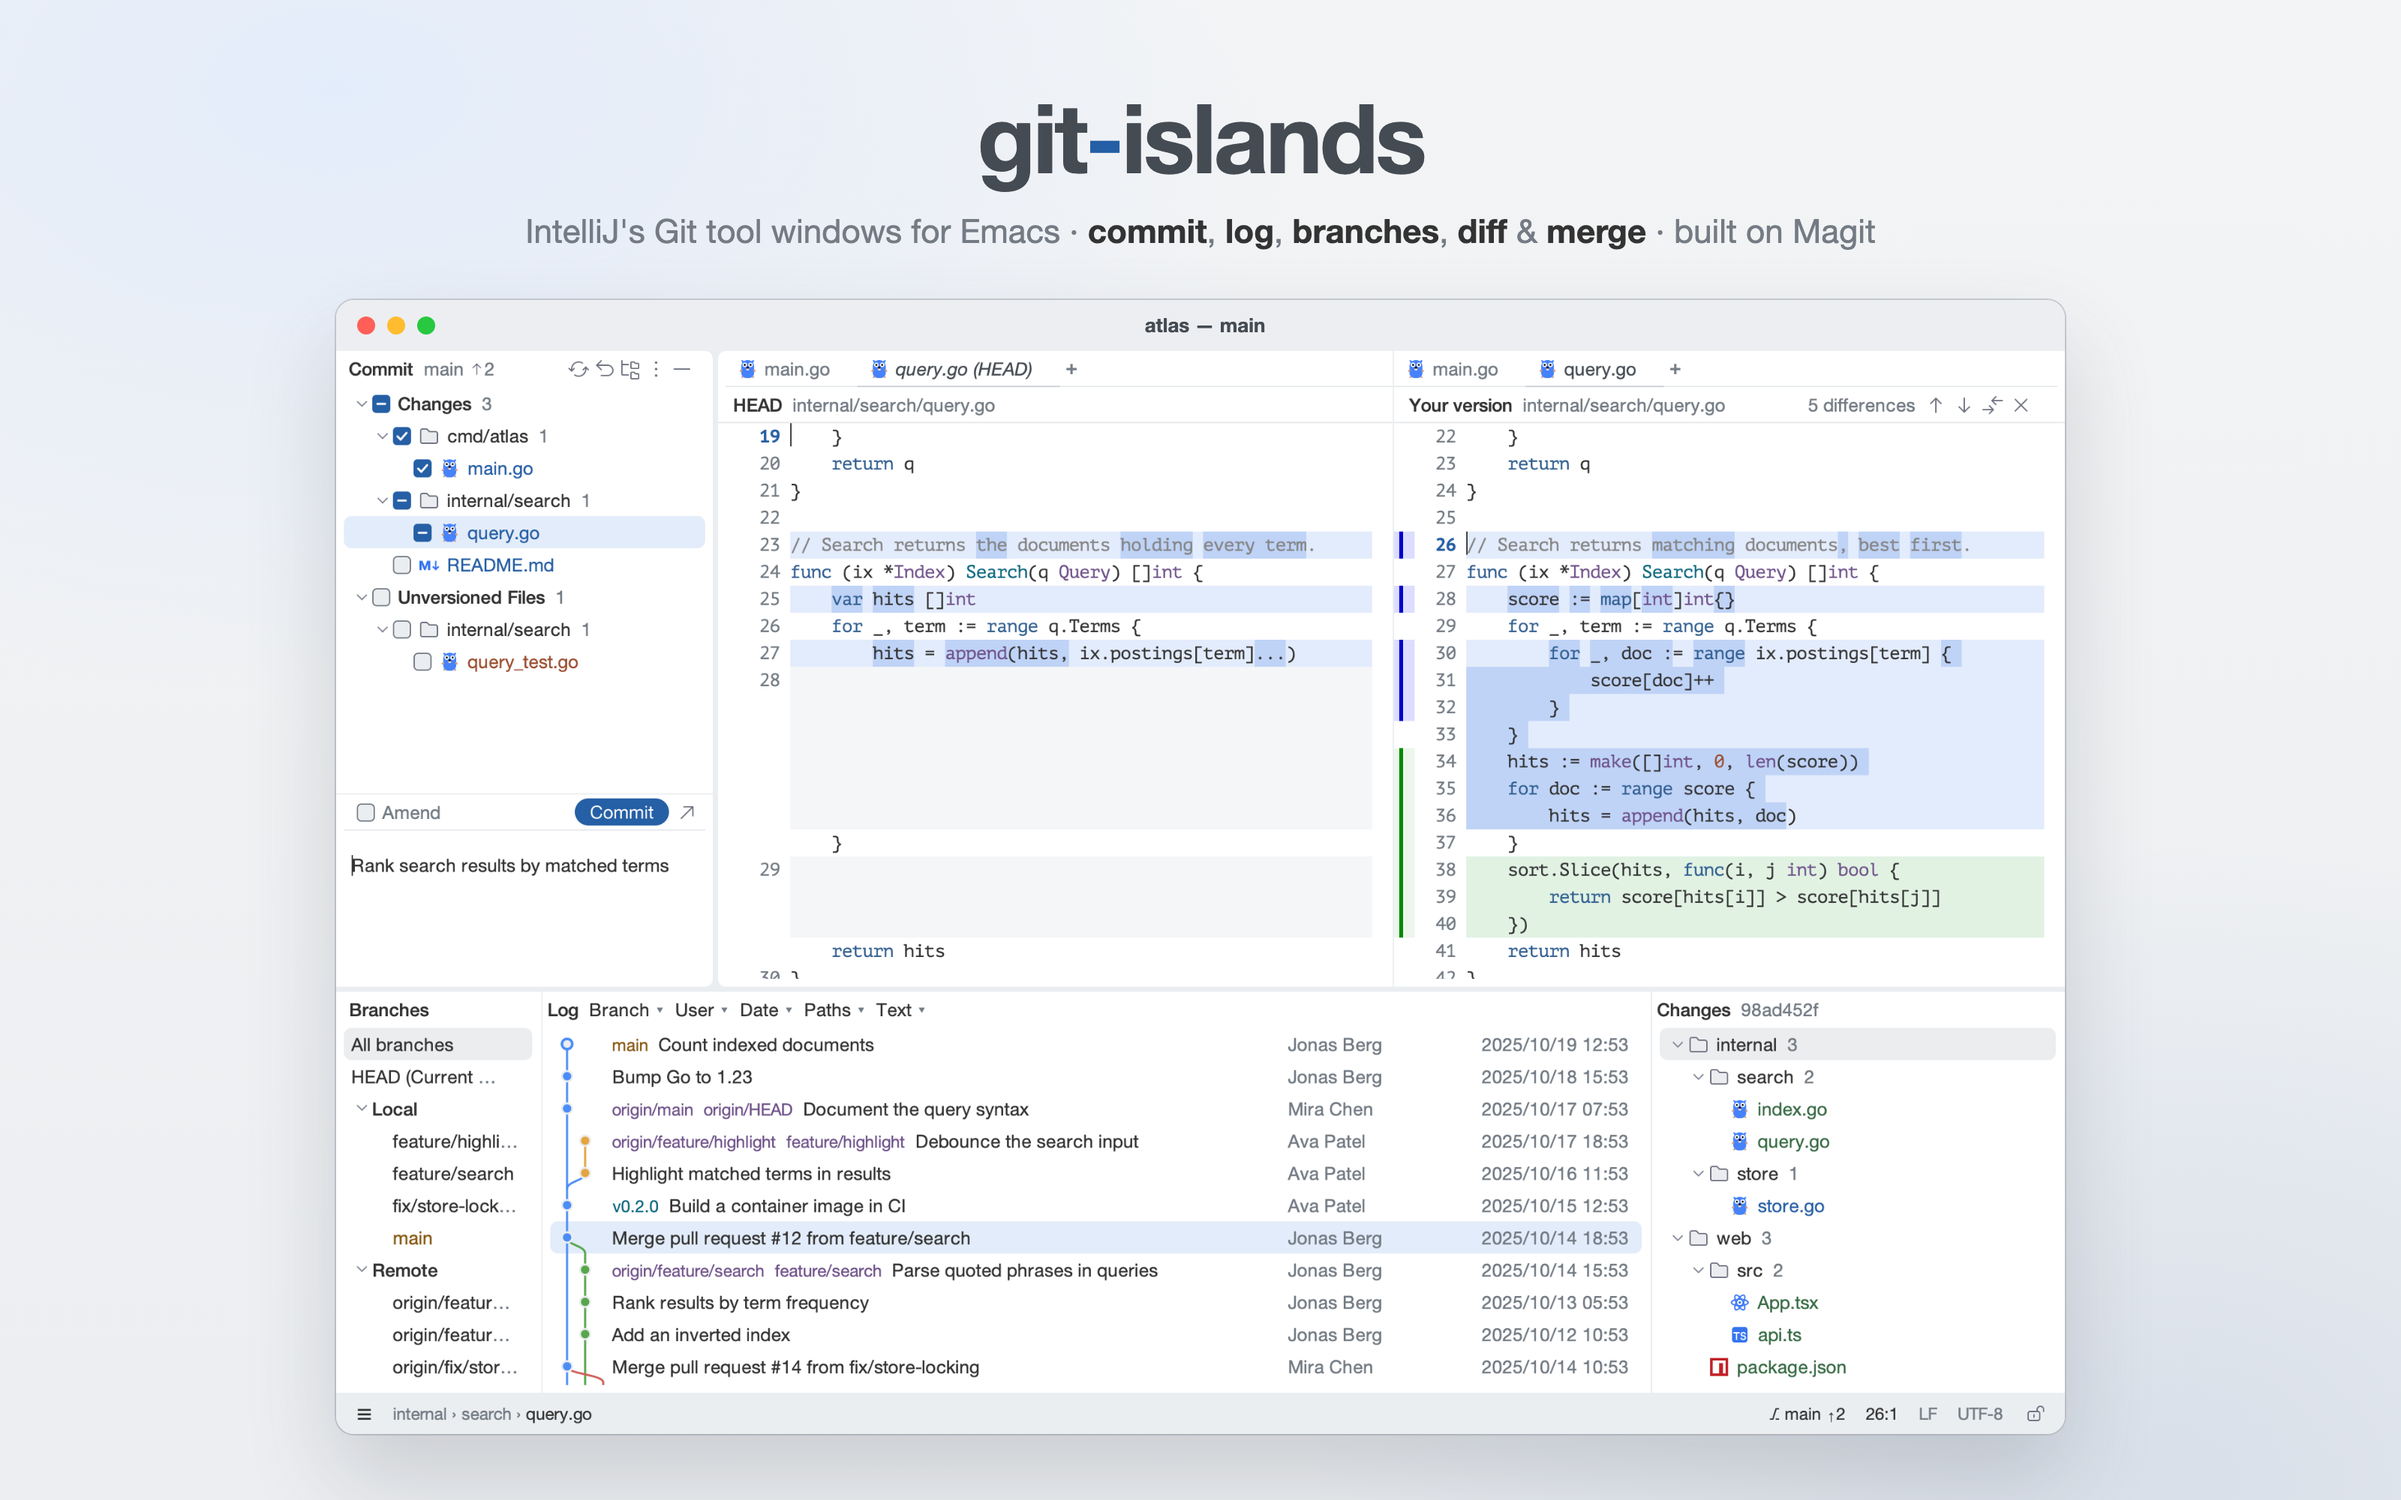
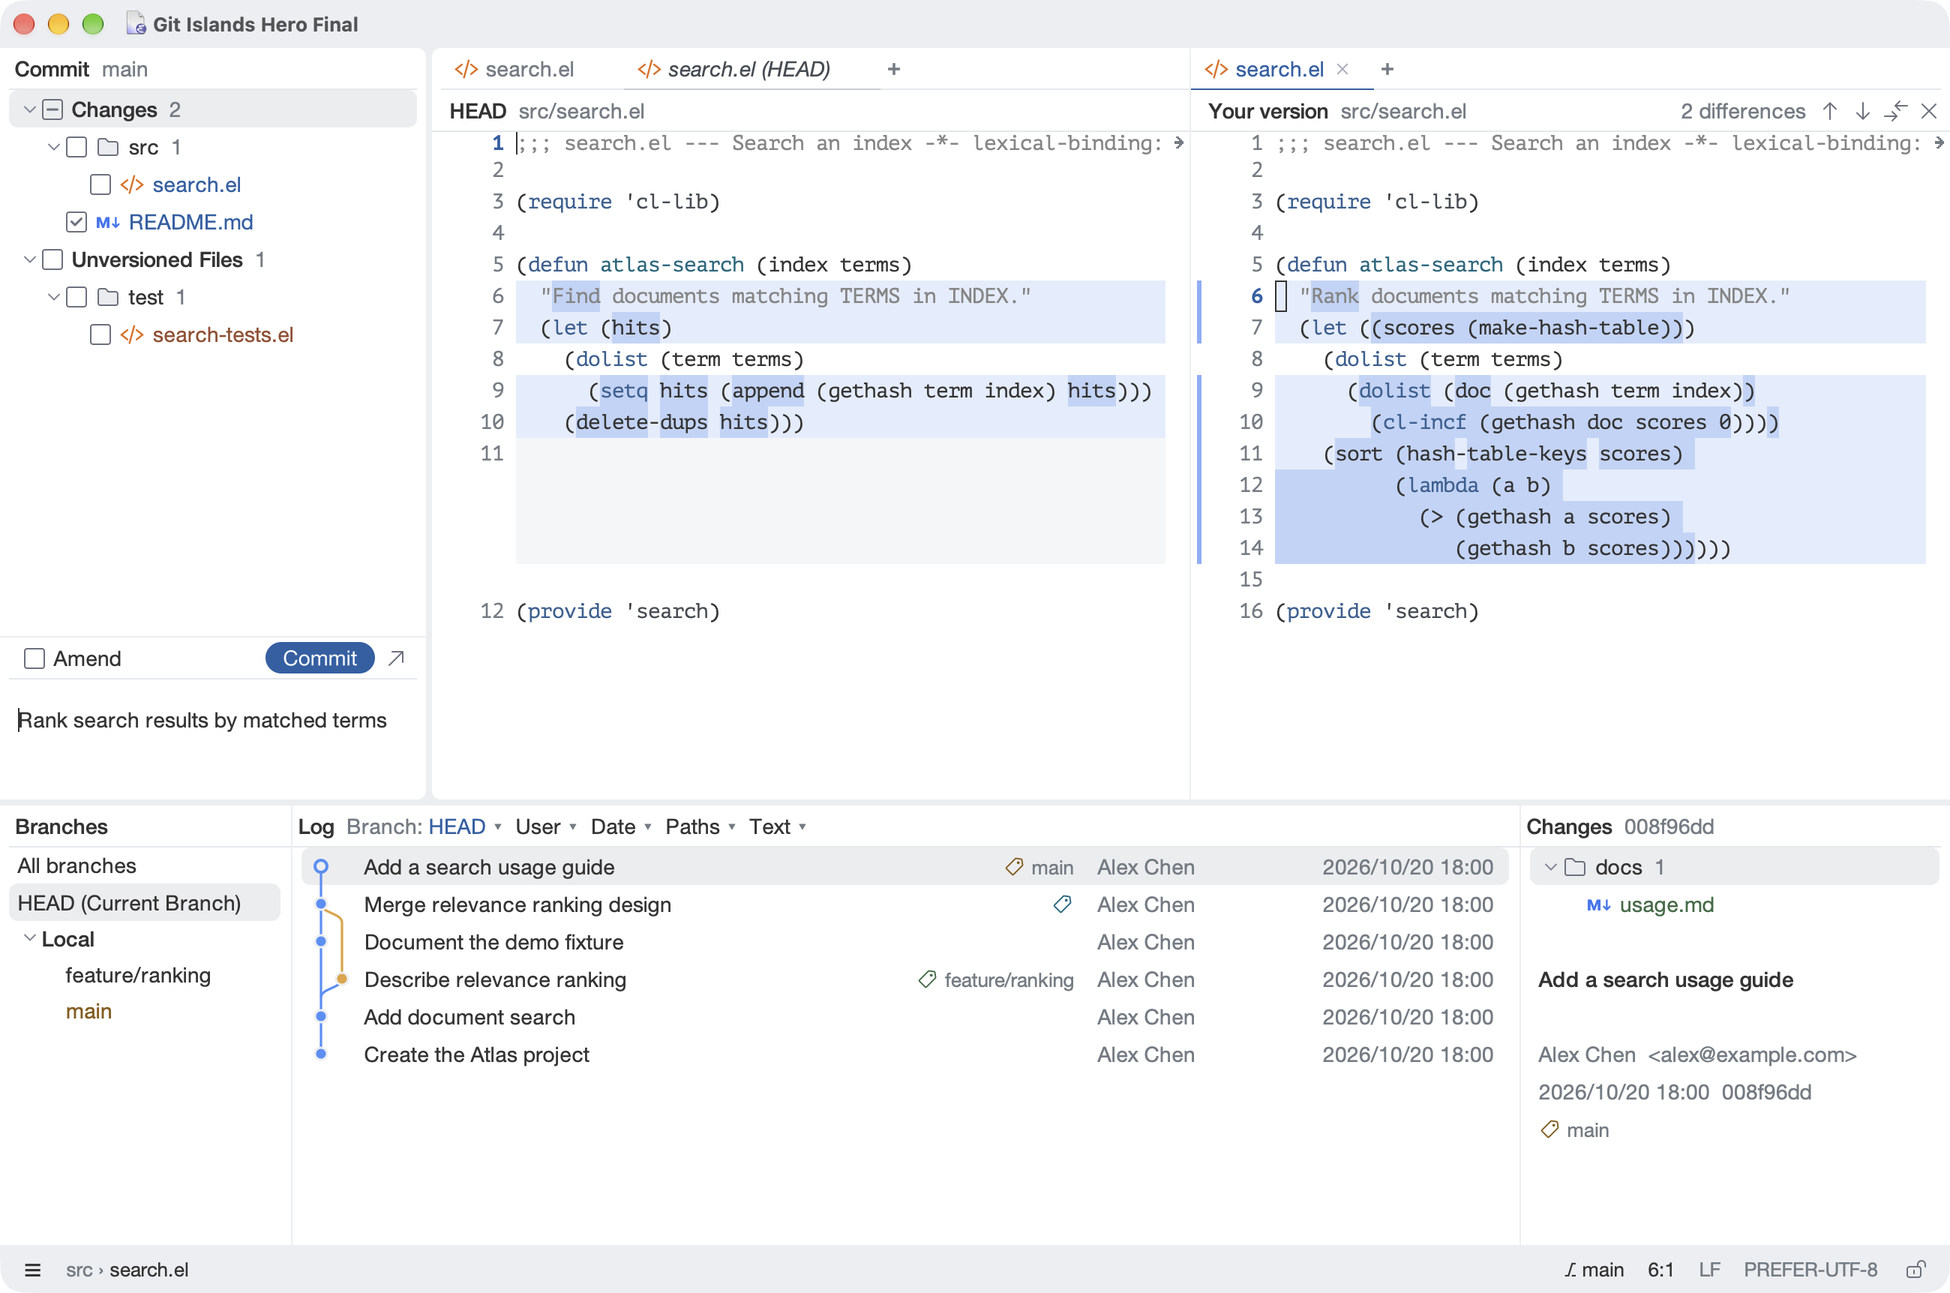
Fix pane sizing and diff alignment and refresh screenshots

diff --git a/README.md b/README.md
@@ -229,8 +229,18 @@ color or set it to nil to hide it. Height is measured from the header font,
 with room for icons and rounded buttons. `git-islands-header-padding` controls
 the minimum padding above and below content. `git-islands-header-ascent` defaults to nil for automatic
 vertical centering; explicit percentages remain supported.
+For exact alignment with another editor component, set
+`git-islands-header-space-function` to a function taking WIDTH and returning
+a spacer display spec. Nil retains the automatic default measurements.
 Keep `git-islands-ui-font` limited to font attributes: inheriting `default`
 on inline text also imports its background, covering the header beneath it.
+
+The commit message body keeps at least four frame text lines after layout
+changes; customize `git-islands-message-min-body-lines` (zero disables this).
+Diff temporarily disables soft wrapping so logical lines stay aligned, then
+restores each buffer’s prior wrapping settings on exit. Highlight overlays and
+filler lines preserve the buffer’s default line-height and line-spacing. Narrow Diff headers
+shorten paths (full text in the tooltip) and retain essential navigation.
 
 [examples/style.el](examples/style.el) combines these settings into an optional,
 standalone file. Load it after your theme with

diff --git a/README.zh-CN.md b/README.zh-CN.md
@@ -209,8 +209,16 @@ Commit 和 Log 不再显示刷新、隐藏图标，仍可使用 `g` 和 `q`；Lo
 高度按表头字体计算，并为图标和圆角按钮留出空间。
 `git-islands-header-padding` 控制内容上下的最小留白。`git-islands-header-ascent` 默认 nil，
 自动计算文字的垂直居中；已有配置中的百分比数值仍然有效。
+需要与编辑器其他组件精确对齐时，可设置 `git-islands-header-space-function`，
+函数接收 WIDTH 并返回撑高空白的 display spec；nil 保留库的自动测量。
 `git-islands-ui-font` 只应设置字体属性；让行内文字继承 `default` 会连同背景一起继承，
 覆盖表头本身的背景。
+
+布局变化后，提交信息正文至少保留四个字体行高，可通过
+`git-islands-message-min-body-lines` 调整（0 表示关闭保底）。
+Diff 期间暂时关闭软换行，保证逻辑行对齐，退出后恢复原来的局部设置。
+差异高亮与补齐空行同时保留缓冲区默认的行高和行距。
+窄窗格中路径会缩短，悬停可查看全文；操作区优先保留必要导航。
 
 [examples/style.el](examples/style.el) 将以上设置组合为可选的独立示例。
 在主题之后执行 `(load "/path/to/git-islands/examples/style.el")` 即可加载。

diff --git a/docs/screenshots.md b/docs/screenshots.md
@@ -34,3 +34,19 @@ in `*Messages*`; it can be removed after closing the demo Emacs.
 Wait for the log to populate, then capture the Emacs window. The committed
 PNG includes the native title bar and toolbar, without the desktop or a
 window shadow. No UI elements are redrawn or composited.
+
+## Latest personal configuration capture
+
+The current `hero.png` loads the actual `.emacs.d/early-init.el` and
+`.emacs.d/init.el`, including Ink, islands, tabs, sidebar integration and the
+status bar, in a separate graphical Emacs process. It uses the same temporary
+Git fixture as `emacs-q.png`. Runtime history/workspace files are redirected
+to a temporary `user-emacs-directory`; the existing Tree-sitter grammar path
+is supplied explicitly. No personal faces or pane sizes are overridden.
+
+After startup completes, the personal frame is resized to 1300 × 830 content
+pixels (startup frame settings otherwise restore 800 × 750). The bare frame
+uses `-g 180x55`. Both images are direct window captures, including native
+window chrome. The commit message area uses the package’s minimum-body-height policy; it
+is not manually resized for the screenshot. Diff disables soft wrapping
+while open, including in the personal configuration.
